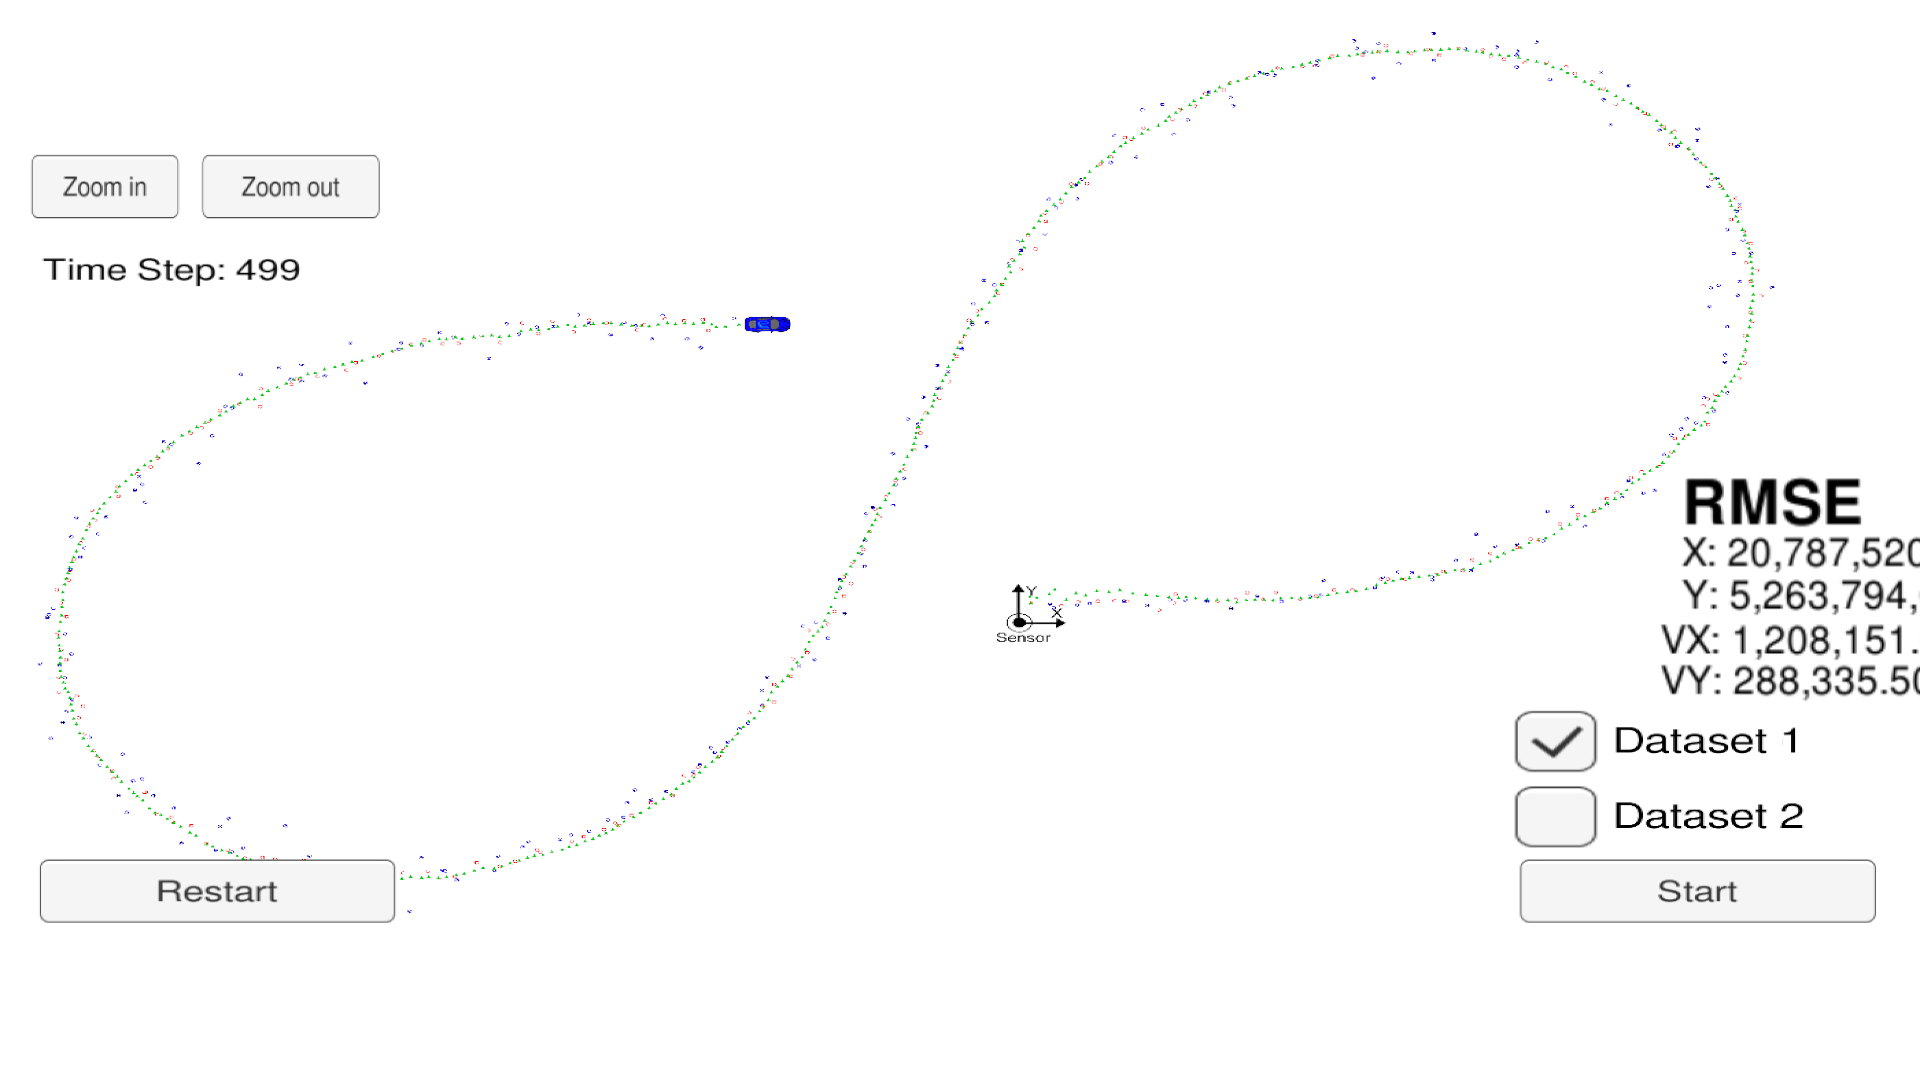
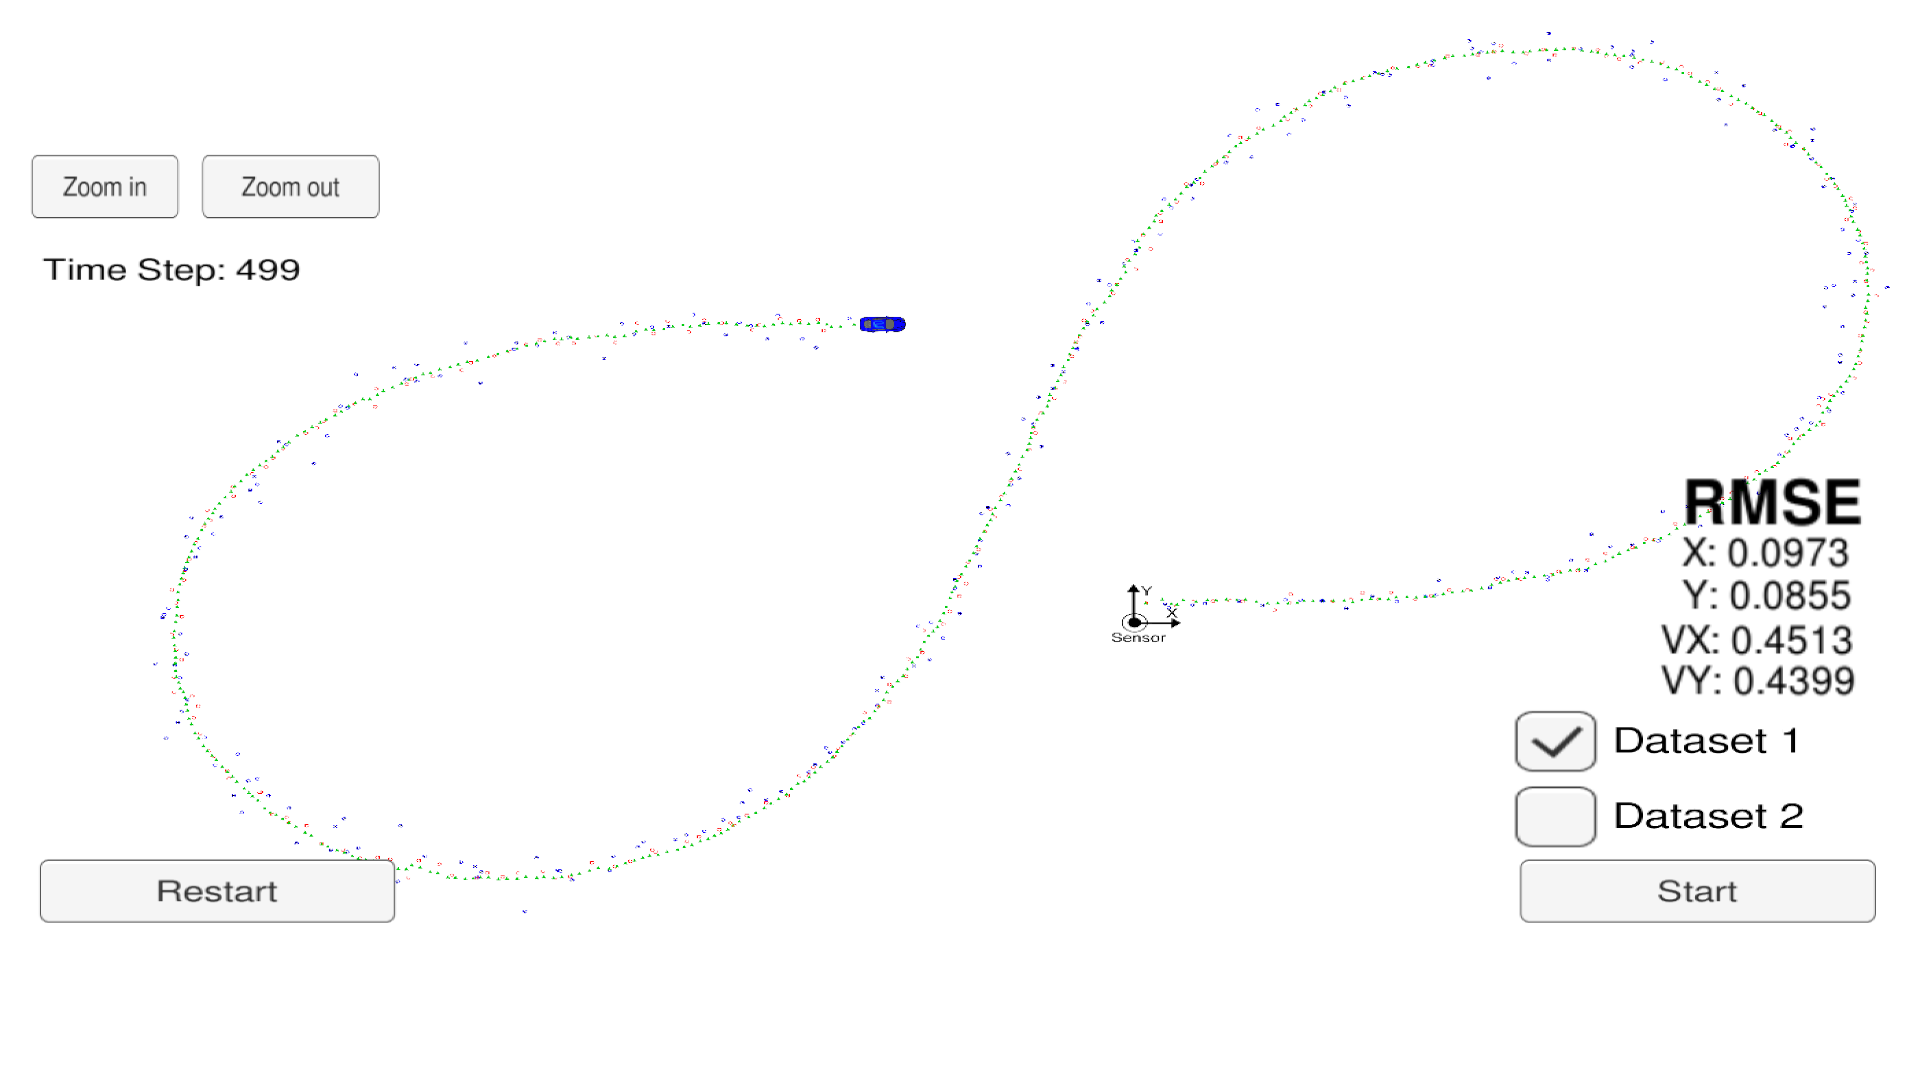
Fix bug: record first observation timestamp
- Correct images and report accordingly

diff --git a/CarND-Extended-Kalman-Filter-Project/src/FusionEKF.cpp b/CarND-Extended-Kalman-Filter-Project/src/FusionEKF.cpp
@@ -9,57 +9,50 @@ using std::cout;
 using std::endl;
 using std::vector;
 
-/**
- * Constructor.
- */
 FusionEKF::FusionEKF()
 {
   is_initialized_ = false;
 
   previous_timestamp_ = 0;
 
-  // initializing matrices
-  R_laser_ = MatrixXd(2, 2);
-  R_radar_ = MatrixXd(3, 3);
+  // == Lidar/Laser ==
+  // Measurement Function Matrix
   H_laser_ = MatrixXd(2, 4);
-  Hj_ = MatrixXd(3, 4);
-
-  //measurement covariance matrix - laser
+  H_laser_ << 1, 0, 0, 0,
+      0, 1, 0, 0;
+  // Measurement Covariance Matrix
+  R_laser_ = MatrixXd(2, 2);
   R_laser_ << 0.0225, 0,
       0, 0.0225;
 
-  //measurement covariance matrix - radar
+  // == Radar ==
+  // Radar Measurement Jacobian Function
+  Hj_ = MatrixXd(3, 4);
+  // Measurement Covariance Matrix
+  R_radar_ = MatrixXd(3, 3);
   R_radar_ << 0.09, 0, 0,
       0, 0.0009, 0,
       0, 0, 0.09;
 
-  //measurement covariance matrix
-  H_laser_ << 1, 0, 0, 0,
-      0, 1, 0, 0;
-
-  noise_ax_ = 9.0;
-  noise_ay_ = 9.0;
-
-  //  Create a 4D state vector, the values of the x state are not known yet
-  VectorXd x = VectorXd(4);
-  x << 0.0, 0.0, 1.0, 1.0;
-
-  // The initial matrix F_
+  // == State ==
+  // State Transition Matrix
   MatrixXd F = MatrixXd(4, 4);
   F << 1, 0, 0.5, 0,
       0, 1, 0, 0.5,
       0, 0, 1, 0,
       0, 0, 0, 1;
-
-  MatrixXd Q = MatrixXd::Zero(4, 4);
+  // State Covariance Matrix
   MatrixXd P = MatrixXd::Zero(4, 4);
+  // State Transition Noise
+  MatrixXd Q = MatrixXd::Zero(4, 4);
+
+  //  Create a 4D state vector, the values of the x state are not known yet
+  VectorXd x = VectorXd(4);
+  x << 0.0, 0.0, 1.0, 1.0;
 
   ekf_.Init(x, P, F, H_laser_, R_laser_, Q);
 }
 
-/**
- * Destructor.
- */
 FusionEKF::~FusionEKF() {}
 
 void FusionEKF::ProcessMeasurement(const MeasurementPackage &measurement_pack)
@@ -100,7 +93,7 @@ void FusionEKF::ProcessMeasurement(const MeasurementPackage &measurement_pack)
       float px = measurement_pack.raw_measurements_[0];
       float py = measurement_pack.raw_measurements_[1];
 
-      // The speed is certain
+      // The speed is uncertain
       ekf_.P_ << 1, 0, 0, 0,
           0, 1, 0, 0,
           0, 0, 1000, 0,
@@ -108,6 +101,8 @@ void FusionEKF::ProcessMeasurement(const MeasurementPackage &measurement_pack)
 
       ekf_.x_ << px, py, 0, 0;
     }
+
+    previous_timestamp_ = measurement_pack.timestamp_;
 
     // Done initializing, no need to predict or update
     is_initialized_ = true;
@@ -126,9 +121,8 @@ void FusionEKF::ProcessMeasurement(const MeasurementPackage &measurement_pack)
   ekf_.F_(0, 2) = dt;
   ekf_.F_(1, 3) = dt;
 
-  // set the process covariance matrix Q
+  // Set the process covariance matrix Q
   ekf_.Q_ = tools.CalculateCovariantMatrix(dt, noise_ax_, noise_ay_);
-
   ekf_.Predict();
 
   /**
@@ -149,6 +143,6 @@ void FusionEKF::ProcessMeasurement(const MeasurementPackage &measurement_pack)
   }
 
   // print the output
-  std::cout << "x_ = " << ekf_.x_ << std::endl;
-  // std::cout << "P_ = " << ekf_.P_ << std::endl;
+  cout << "x_ = " << ekf_.x_ << endl;
+  cout << "P_ = " << ekf_.P_ << endl;
 }

diff --git a/CarND-Extended-Kalman-Filter-Project/src/FusionEKF.h b/CarND-Extended-Kalman-Filter-Project/src/FusionEKF.h
@@ -1,25 +1,19 @@
 #ifndef FusionEKF_H_
 #define FusionEKF_H_
 
-#include "Eigen/Dense"
-#include "kalman_filter.h"
-#include "measurement_package.h"
-#include "tools.h"
 #include <fstream>
 #include <string>
 #include <vector>
 
+#include "Eigen/Dense"
+#include "kalman_filter.h"
+#include "measurement_package.h"
+#include "tools.h"
+
 class FusionEKF
 {
 public:
-  /**
-   * Constructor.
-   */
   FusionEKF();
-
-  /**
-   * Destructor.
-   */
   virtual ~FusionEKF();
 
   /**
@@ -33,6 +27,7 @@ public:
   KalmanFilter ekf_;
 
 private:
+  void Initialize(const MeasurementPackage &measurement_pack);
   // check whether the tracking toolbox was initialized or not (first measurement)
   bool is_initialized_;
 
@@ -47,8 +42,8 @@ private:
   Eigen::MatrixXd Hj_;
 
   // acceleration noise components
-  double noise_ax_;
-  double noise_ay_;
+  double noise_ax_{9.0};
+  double noise_ay_{9.0};
 };
 
 #endif // FusionEKF_H_

diff --git a/CarND-Extended-Kalman-Filter-Project/src/tools.cpp b/CarND-Extended-Kalman-Filter-Project/src/tools.cpp
@@ -15,7 +15,7 @@ VectorXd Tools::CalculateRMSE(const vector<VectorXd> &estimations,
    VectorXd rmse(4);
    rmse << 0.0, 0.0, 0.0, 0.0;
 
-   // check the validity of the following inputs:
+   // Check the validity of the following inputs:
    //  * Estimation vector size should not be zero
    //  * Estimation vector size should equal ground truth vector size
    if (estimations.size() != ground_truth.size() || estimations.size() == 0)
@@ -34,14 +34,14 @@ VectorXd Tools::CalculateRMSE(const vector<VectorXd> &estimations,
       rmse += residual;
    }
 
-   // calculate the mean
+   // Calculate the mean
    rmse = rmse / estimations.size();
 
-   // calculate the squared root
+   // Calculate the squared root
    rmse = rmse.array().sqrt();
 
    std::cout << "RMSE = " << rmse << std::endl;
-   // return the result
+   // Return the result
    return rmse;
 }
 

diff --git a/CarND-Extended-Kalman-Filter-Project/README.md b/CarND-Extended-Kalman-Filter-Project/README.md
@@ -39,38 +39,35 @@ The communication protocol that main.cpp uses for uWebSocketIO in communicating 
 __COMMAND LINE OUTPUT:__
 I have added some couts in order to see the estimated x and the RMSE corresponding to it, also ti visualy obbserve the update after a new measurement from Lidar or Radar has come in.
 ```
-x_ =  -8.16108
-      10.8292
-      4.76408
-      -0.189205
-RMSE = 0.097631
-       0.088092
-       0.538735
-       0.467586
-Update (Laser) -7.51971
-               11.0005
-x_ =  -7.77955
-      10.9042
-      5.15254
-      0.0386998
-RMSE =  0.097537
-        0.0880036
-        0.538198
-        0.467118
-UpdateEKF (Radar)  12.8856
-                   2.1693
-                   -2.77937
-x_ =  -7.51129
-      10.9031
-      5.14932
-      0.0779047
-RMSE = 0.0974405
-       0.0879155
-       0.537663
-       0.466661
-Update (Laser) -7.15631
-               10.815
-x_ =  -7.23246
+x_ =  11.1315
+      14.1753
+     -4.86447
+      0.406382
+P_ =  0.00687678  -0.0025531   0.0173722 -0.00788902
+     -0.0025531  0.00562724 -0.00880071   0.0129621
+      0.0173722 -0.00880071    0.115152  -0.0401013
+     -0.00788902   0.0129621  -0.0401013    0.095715
+RMSE = 0.0740899
+       0.0964326
+       0.446976
+       0.476035
+UpdateEKF (Radar)  18.0394
+                   0.897837
+                  -3.23191
+x_ =  10.8881
+      14.1617
+     -4.98471
+       0.14773
+P_ =  0.00845673 -0.00358964   0.0216488  -0.0113006
+      -0.00358964  0.00639669   -0.012797   0.0137597
+        0.0216488   -0.012797    0.123281  -0.0578884
+       -0.0113006   0.0137597  -0.0578884   0.0862289
+RMSE = 0.0740244
+       0.0963655
+       0.446603
+       0.475599
+Update (Laser)  10.468
+                14.0591
 ```
 
 ### Results
@@ -81,6 +78,11 @@ _Data Set 2_
 <img src="./report_images/ekf_dataset2.png" width="800"/>
 
 For both cases the values of RMSE are lower than the specified tolerance.
+RMSE(x)  < 0.11
+RMSE(y)  < 0.11
+RMSE(Vx) < 0.52
+RMSE(Vy) < 0.52
+
 See [project rubrics](https://review.udacity.com/#!/rubrics/1962/view)
 
 
